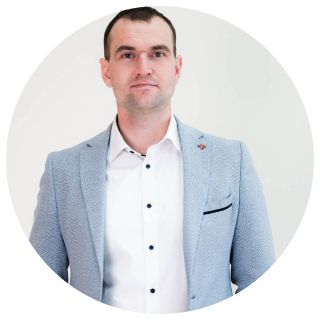
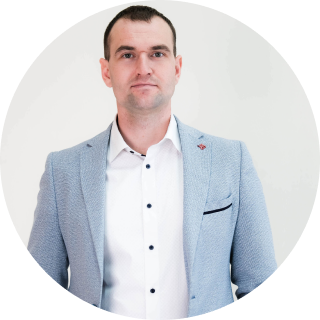
Добавляет фото сотрудников в слайдер

diff --git a/source/index.html b/source/index.html
@@ -652,14 +652,10 @@
             <div class="team__item swiper-slide">
               <div class="team__picture-wrapper">
                 <picture>
-                  <source type="image/webp" media="(min-width: 768px)"
-                    srcset="img/team/team-1-desktop@1x.webp 1x, img/team/team-1-desktop@2x.webp 2x">
                   <source type="image/webp"
-                    srcset="img/team/team-1-mobile@1x.webp 1x, img/team/team-1-mobile@2x.webp 2x">
-                  <source media="(min-width: 768px)"
-                    srcset="img/team/team-1-desktop@1x.png 1x, img/team/team-1-desktop@2x.png 2x">
-                  <img class="team__img" width="240" height="240" src="img/team/team-1-mobile@1x.png"
-                    srcset="img/team/team-1-mobile@2x.png 2x" alt="Фото директора.">
+                    srcset="img/team/team-2-small@1x.webp 1x, img/team/team-2-small@2x.webp 2x">
+                  <img class="team__img" width="240" height="240" src="img/team/team-2-small@1x.png"
+                    srcset="img/team/team-2-small@2x.png 2x" alt="Фото директора.">
                 </picture>
               </div>
               <div class="team__text-wrapper">
@@ -677,14 +673,10 @@
             <div class="team__item swiper-slide">
               <div class="team__picture-wrapper">
                 <picture>
-                  <source type="image/webp" media="(min-width: 768px)"
-                    srcset="img/team/team-1-desktop@1x.webp 1x, img/team/team-1-desktop@2x.webp 2x">
                   <source type="image/webp"
-                    srcset="img/team/team-1-mobile@1x.webp 1x, img/team/team-1-mobile@2x.webp 2x">
-                  <source media="(min-width: 768px)"
-                    srcset="img/team/team-1-desktop@1x.png 1x, img/team/team-1-desktop@2x.png 2x">
-                  <img class="team__img" width="240" height="240" src="img/team/team-1-mobile@1x.png"
-                    srcset="img/team/team-1-mobile@2x.png 2x" alt="Фото директора.">
+                    srcset="img/team/team-3-small@1x.webp 1x, img/team/team-3-small@2x.webp 2x">
+                  <img class="team__img" width="240" height="240" src="img/team/team-3-small@1x.png"
+                    srcset="img/team/team-3-small@2x.png 2x" alt="Фото директора.">
                 </picture>
               </div>
               <div class="team__text-wrapper">
@@ -699,14 +691,10 @@
             <div class="team__item swiper-slide">
               <div class="team__picture-wrapper">
                 <picture>
-                  <source type="image/webp" media="(min-width: 768px)"
-                    srcset="img/team/team-1-desktop@1x.webp 1x, img/team/team-1-desktop@2x.webp 2x">
                   <source type="image/webp"
-                    srcset="img/team/team-1-mobile@1x.webp 1x, img/team/team-1-mobile@2x.webp 2x">
-                  <source media="(min-width: 768px)"
-                    srcset="img/team/team-1-desktop@1x.png 1x, img/team/team-1-desktop@2x.png 2x">
-                  <img class="team__img" width="240" height="240" src="img/team/team-1-mobile@1x.png"
-                    srcset="img/team/team-1-mobile@2x.png 2x" alt="Фото директора.">
+                    srcset="img/team/team-4-small@1x.webp 1x, img/team/team-4-small@2x.webp 2x">
+                  <img class="team__img" width="240" height="240" src="img/team/team-4-small@1x.png"
+                    srcset="img/team/team-4-small@2x.png 2x" alt="Фото директора.">
                 </picture>
               </div>
               <div class="team__text-wrapper">
@@ -722,14 +710,10 @@
             <div class="team__item swiper-slide">
               <div class="team__picture-wrapper">
                 <picture>
-                  <source type="image/webp" media="(min-width: 768px)"
-                    srcset="img/team/team-1-desktop@1x.webp 1x, img/team/team-1-desktop@2x.webp 2x">
                   <source type="image/webp"
-                    srcset="img/team/team-1-mobile@1x.webp 1x, img/team/team-1-mobile@2x.webp 2x">
-                  <source media="(min-width: 768px)"
-                    srcset="img/team/team-1-desktop@1x.png 1x, img/team/team-1-desktop@2x.png 2x">
-                  <img class="team__img" width="240" height="240" src="img/team/team-1-mobile@1x.png"
-                    srcset="img/team/team-1-mobile@2x.png 2x" alt="Фото директора.">
+                    srcset="img/team/team-5-small@1x.webp 1x, img/team/team-5-small@2x.webp 2x">
+                  <img class="team__img" width="240" height="240" src="img/team/team-5-small@1x.png"
+                    srcset="img/team/team-5-small@2x.png 2x" alt="Фото директора.">
                 </picture>
               </div>
               <div class="team__text-wrapper">
@@ -746,14 +730,10 @@
             <div class="team__item swiper-slide">
               <div class="team__picture-wrapper">
                 <picture>
-                  <source type="image/webp" media="(min-width: 768px)"
-                    srcset="img/team/team-1-desktop@1x.webp 1x, img/team/team-1-desktop@2x.webp 2x">
                   <source type="image/webp"
-                    srcset="img/team/team-1-mobile@1x.webp 1x, img/team/team-1-mobile@2x.webp 2x">
-                  <source media="(min-width: 768px)"
-                    srcset="img/team/team-1-desktop@1x.png 1x, img/team/team-1-desktop@2x.png 2x">
-                  <img class="team__img" width="240" height="240" src="img/team/team-1-mobile@1x.png"
-                    srcset="img/team/team-1-mobile@2x.png 2x" alt="Фото директора.">
+                    srcset="img/team/team-6-small@1x.webp 1x, img/team/team-6-small@2x.webp 2x">
+                  <img class="team__img" width="240" height="240" src="img/team/team-6-small@1x.png"
+                    srcset="img/team/team-6-small@2x.png 2x" alt="Фото директора.">
                 </picture>
               </div>
               <div class="team__text-wrapper">

diff --git a/source/sass/blocks/team.scss b/source/sass/blocks/team.scss
@@ -119,6 +119,7 @@
 .team__img {
   border-radius: 50%;
   box-shadow: 0 4px 25px rgba(var.$black, 0.18);
+  outline: 6px solid var.$white;
 
   @media (min-width: var.$tablet-width) {
     width: 320px;
@@ -144,32 +145,32 @@
 
   &--first {
     top: 58px;
-    right: 635px;
+    right: 400px;
   }
 
   &--second {
     top: 225px;
-    right: 400px;
+    right: 160px;
   }
 
   &--third {
     top: 400px;
-    right: 520px;
+    right: 275px;
   }
 
   &--fourth {
     top: 400px;
-    left: 520px;
+    left: 275px;
   }
 
   &--fifth {
     top: 225px;
-    left: 400px;
+    left: 160px;
   }
 
   &--sixth {
     top: 60px;
-    left: 635px;
+    left: 400px;
   }
 }
 

diff --git a/source/sass/blocks/small-form.scss b/source/sass/blocks/small-form.scss
@@ -4,7 +4,7 @@
   @media (min-width: var.$desktop-width) {
     position: absolute;
     top: -60px;
-    right: 19%;
+    right: 9%;
     width: 420px;
   }
 
